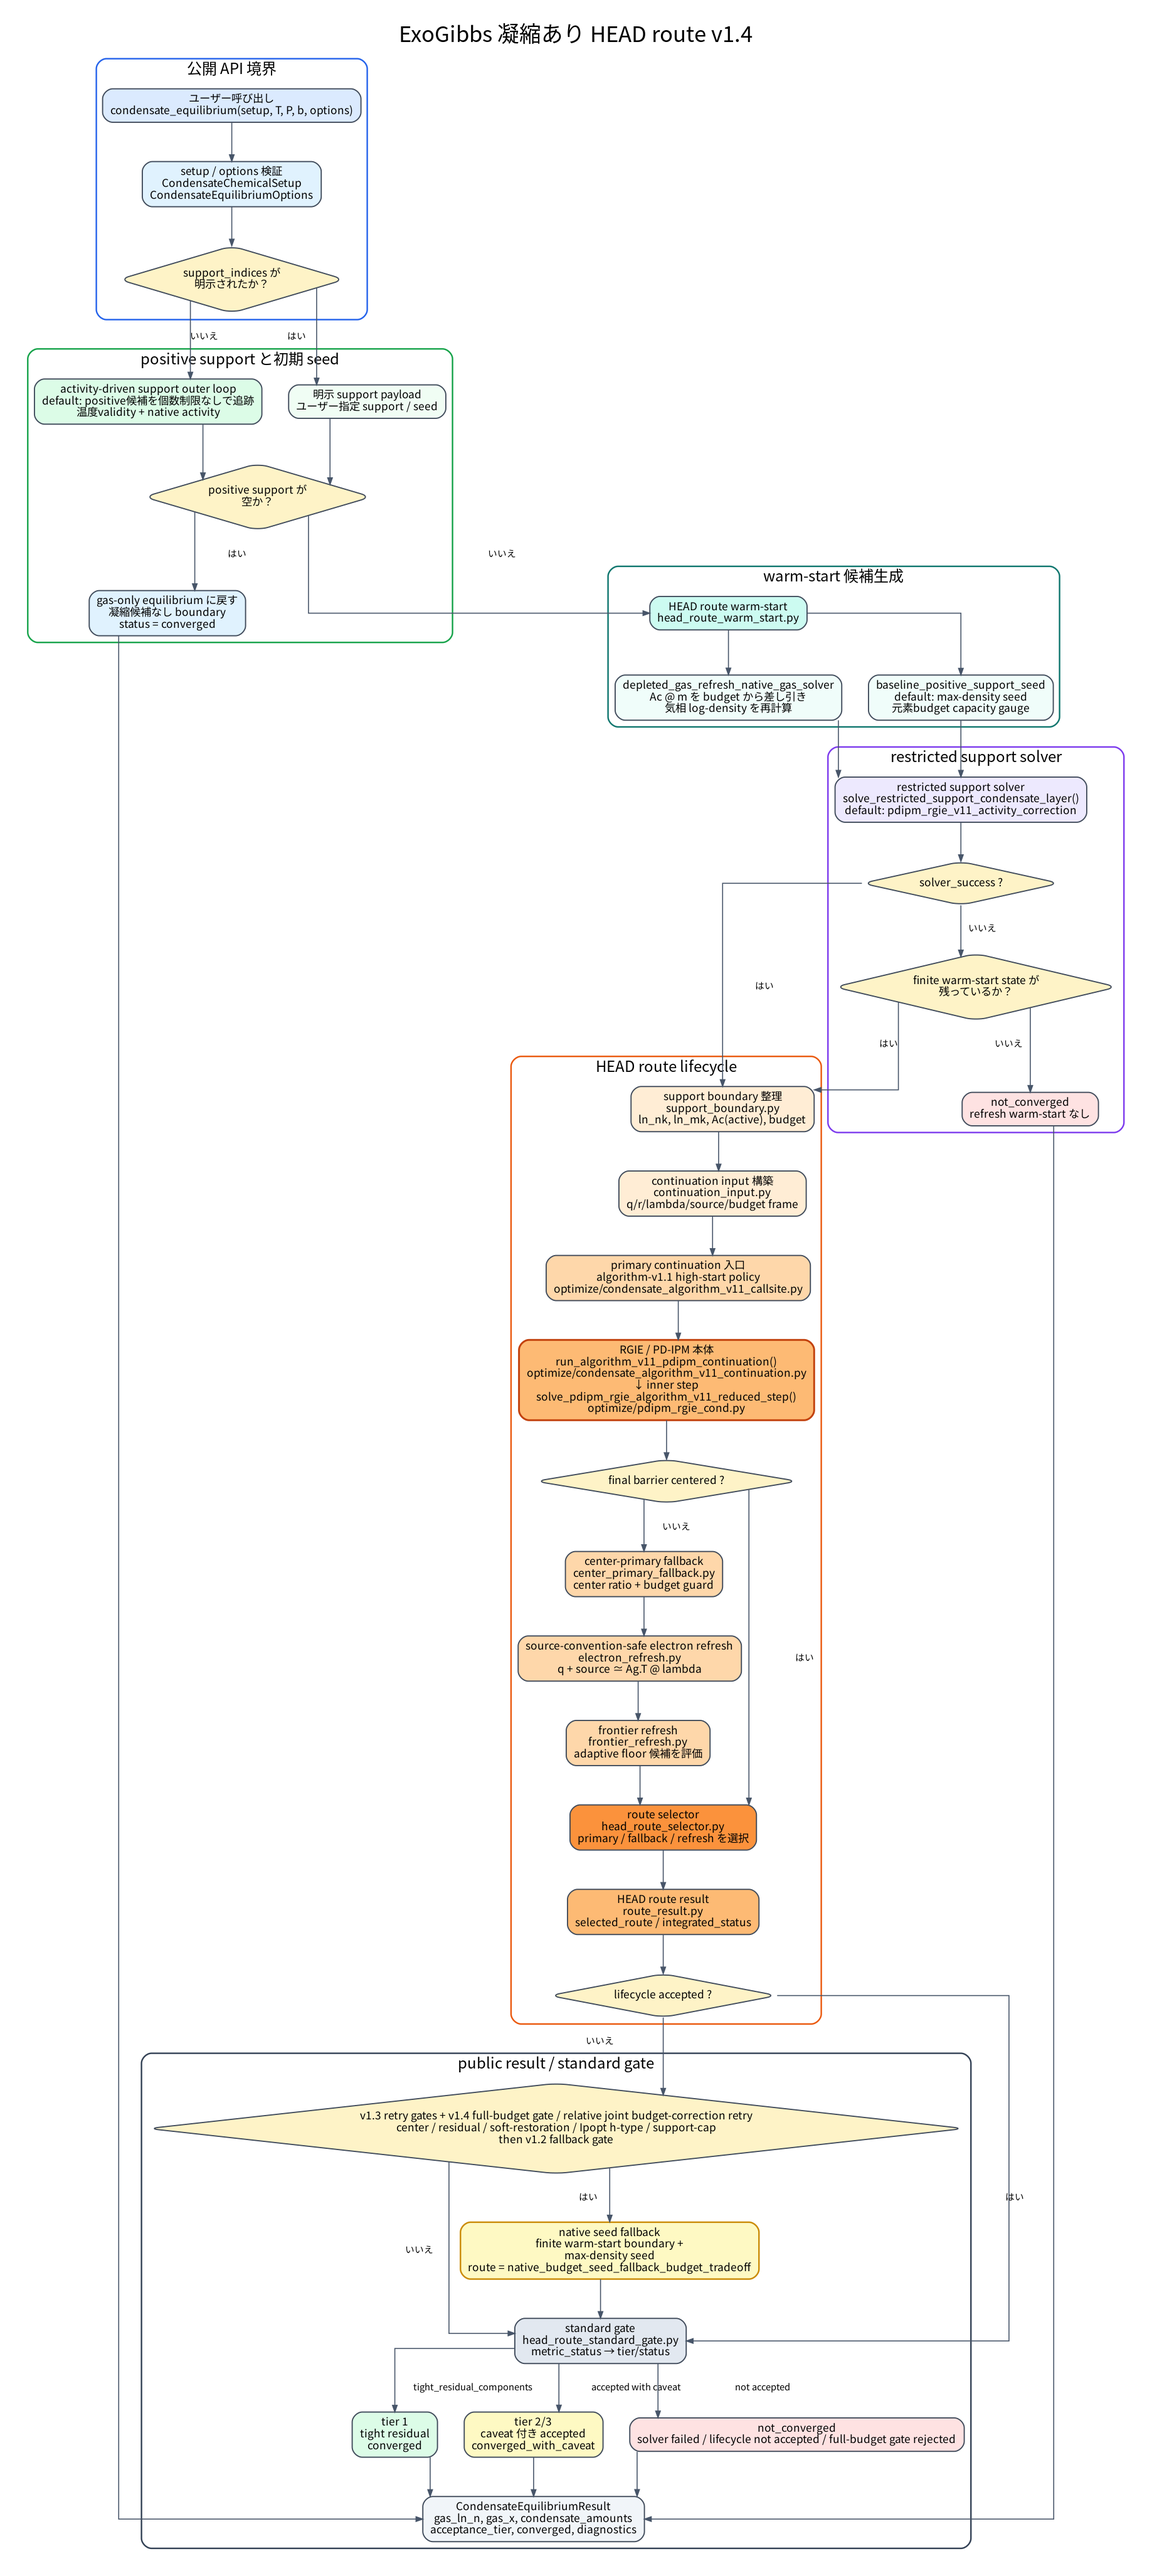
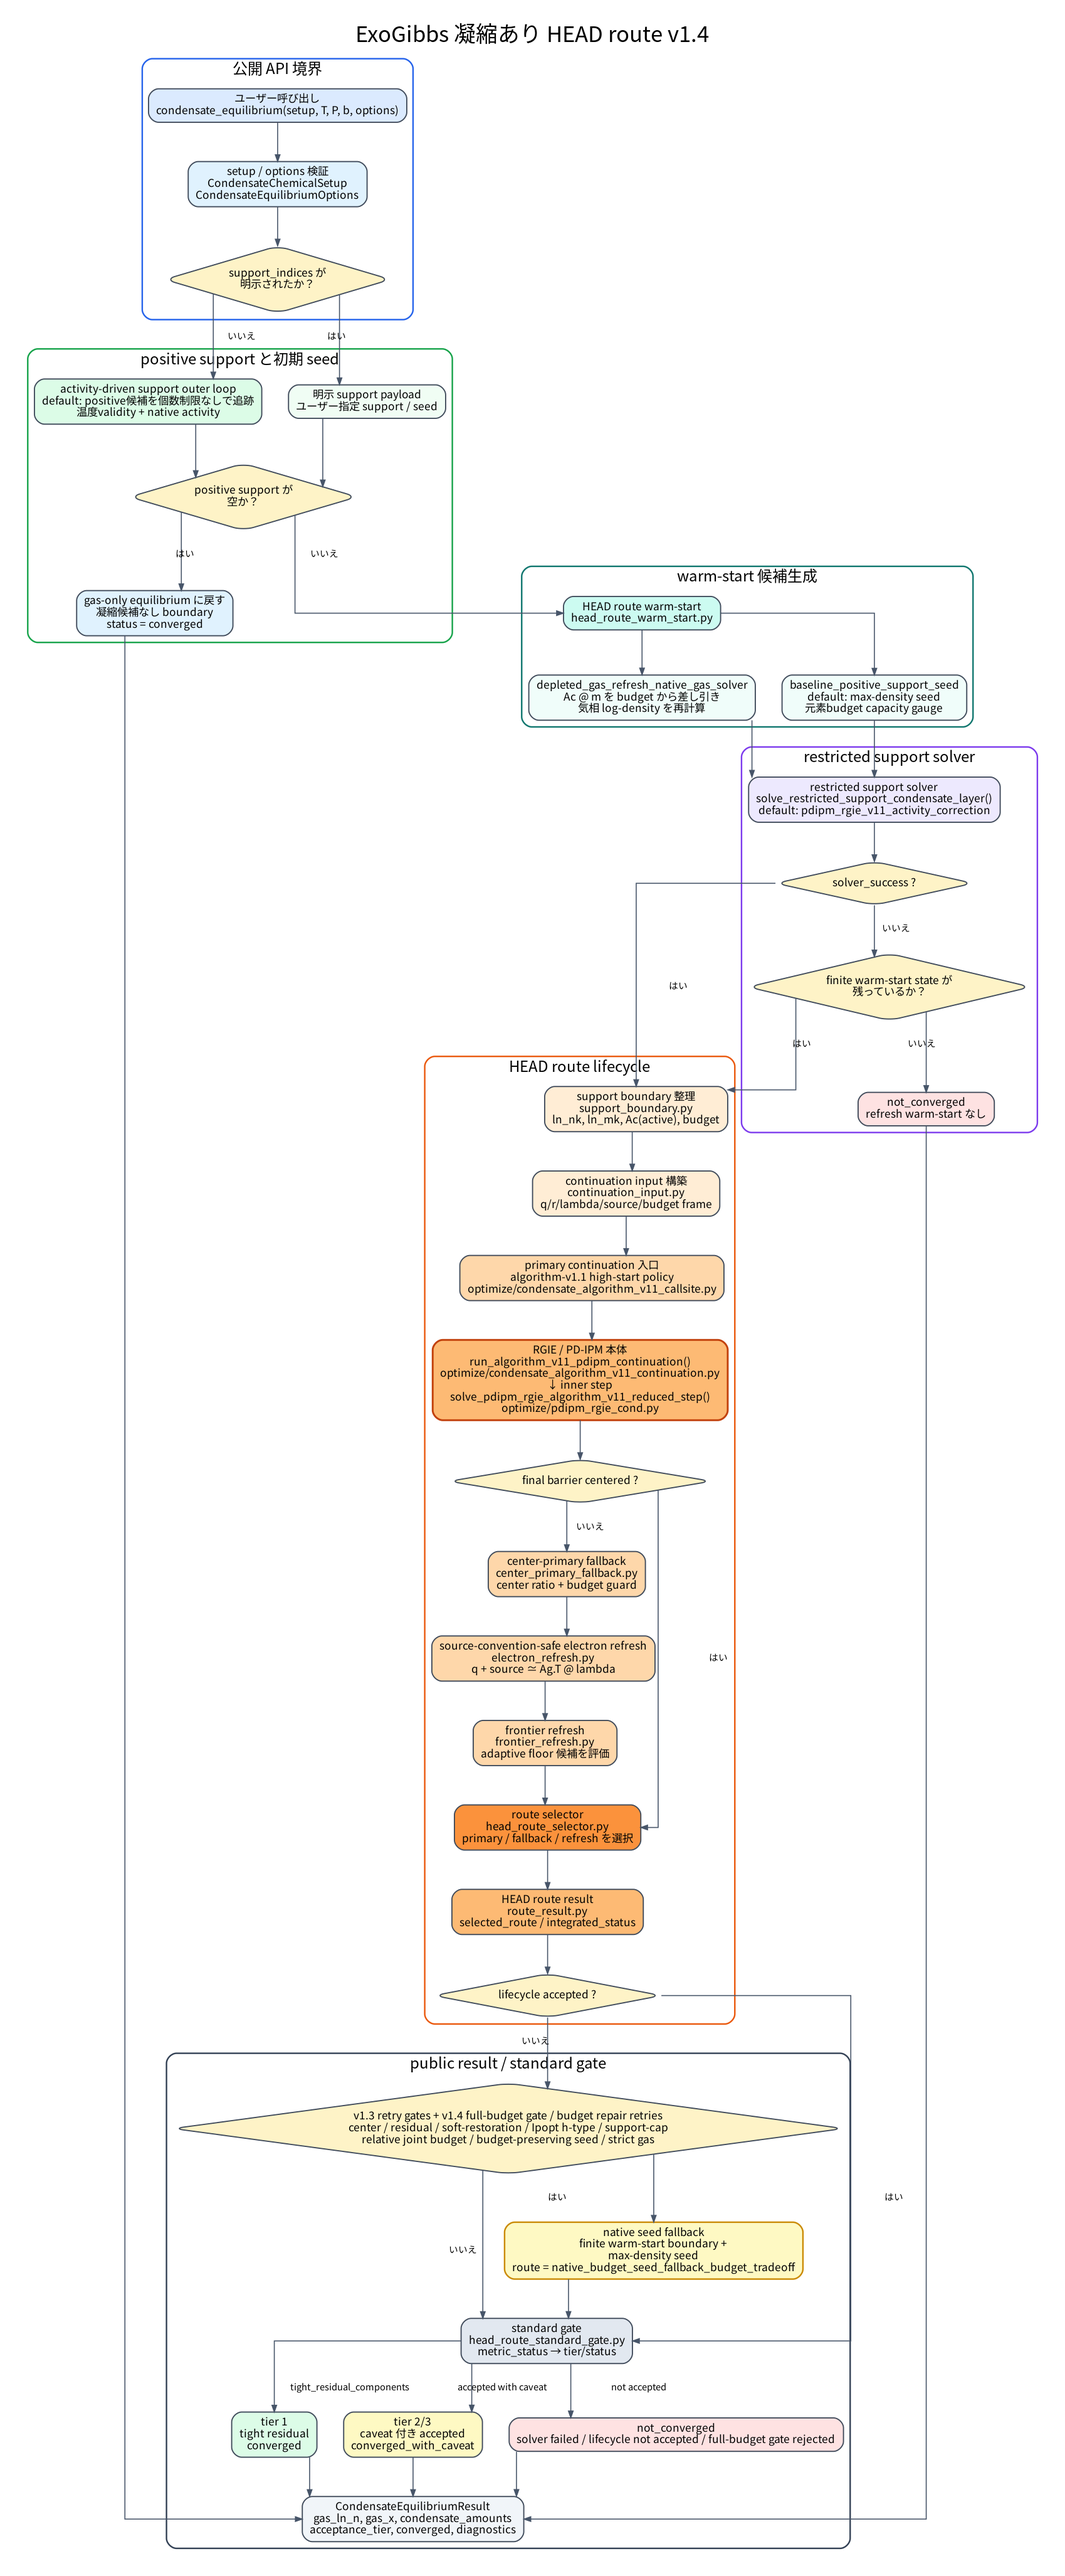
condensates: repair remaining head route rejects

diff --git a/src/exogibbs/api/condensate_equilibrium.py b/src/exogibbs/api/condensate_equilibrium.py
@@ -1740,6 +1740,19 @@ def _with_support_growth_staging_retry_diagnostics(
     return replace(result, diagnostics=diagnostics)
 
 
+def _with_support_budget_preserving_seed_retry_diagnostics(
+    *,
+    result: CondensateEquilibriumResult,
+    retry_report: Mapping[str, Any],
+    return_diagnostics: bool,
+) -> CondensateEquilibriumResult:
+    if not return_diagnostics:
+        return result
+    diagnostics = dict(result.diagnostics or {})
+    diagnostics["support_budget_preserving_seed_retry"] = retry_report
+    return replace(result, diagnostics=diagnostics)
+
+
 def _run_activity_driven_support_outer_loop(
     *,
     setup: CondensateChemicalSetup,
@@ -1808,8 +1821,12 @@ def _run_activity_driven_support_outer_loop(
         )
         if not options.allow_empty_positive_support:
             raise ValueError("No positive condensate support candidates were selected.")
-        diagnostics = {"support_selection": support_selection_report} if options.return_diagnostics else None
-        return _build_empty_support_gas_result(
+        diagnostics = (
+            {"support_selection": support_selection_report}
+            if options.return_diagnostics
+            else None
+        )
+        empty_result = _build_empty_support_gas_result(
             setup=setup,
             gas_ln_n=gas_result.ln_n,
             diagnostics=diagnostics,
@@ -1821,6 +1838,68 @@ def _run_activity_driven_support_outer_loop(
                 options.full_condensate_budget_relative_tolerance
             ),
         )
+        gate = (empty_result.diagnostics or {}).get(
+            "full_condensate_budget_residual_gate",
+            {},
+        )
+        if (
+            options.enable_full_condensate_budget_residual_gate
+            and not empty_result.converged
+            and isinstance(gate, Mapping)
+            and not bool(gate.get("accepted", True))
+        ):
+            strict_gas_result = equilibrium(
+                setup.gas_setup,
+                T,
+                P,
+                jnp.asarray(b),
+                Pref=Pref,
+                options=EquilibriumOptions(epsilon_crit=1.0e-12),
+                return_diagnostics=False,
+            )
+            strict_diagnostics = dict(diagnostics or {})
+            strict_diagnostics["empty_support_strict_gas_retry"] = {
+                "retry_schema": "exogibbs_empty_support_strict_gas_retry_v1",
+                "triggered": True,
+                "epsilon_crit": 1.0e-12,
+                "initial_full_condensate_budget_gate": gate,
+                "fastchem4_trace_public_runtime_constructor_inputs_used": False,
+            }
+            strict_result = _build_empty_support_gas_result(
+                setup=setup,
+                gas_ln_n=strict_gas_result.ln_n,
+                diagnostics=strict_diagnostics,
+                element_inventory_target=b,
+                enable_full_condensate_budget_residual_gate=(
+                    options.enable_full_condensate_budget_residual_gate
+                ),
+                full_condensate_budget_relative_tolerance=(
+                    options.full_condensate_budget_relative_tolerance
+                ),
+            )
+            if options.return_diagnostics:
+                strict_gate = (strict_result.diagnostics or {}).get(
+                    "full_condensate_budget_residual_gate",
+                    {},
+                )
+                retry_report = dict(
+                    (strict_result.diagnostics or {}).get(
+                        "empty_support_strict_gas_retry",
+                        {},
+                    )
+                )
+                retry_report["accepted"] = bool(strict_result.converged)
+                retry_report["retry_full_condensate_budget_gate"] = strict_gate
+                strict_result = replace(
+                    strict_result,
+                    diagnostics={
+                        **dict(strict_result.diagnostics or {}),
+                        "empty_support_strict_gas_retry": retry_report,
+                    },
+                )
+            if strict_result.converged:
+                return strict_result
+        return empty_result
 
     support_amounts = _budget_seed_for_support(
         setup=setup,
@@ -2103,6 +2182,57 @@ def _run_activity_driven_support_outer_loop(
                     retry_report=retry_report,
                     return_diagnostics=options.return_diagnostics,
                 )
+    if (
+        options.seed_initialization_policy != "budget_preserving_fraction"
+        and last_result.selected_route == "native_budget_seed_fallback_budget_tradeoff"
+        and not last_result.converged
+    ):
+        retry_options = replace(
+            options,
+            case_id=None
+            if options.case_id is None
+            else f"{options.case_id}__budget_preserving_seed_retry",
+            seed_initialization_policy="budget_preserving_fraction",
+            enable_support_cap_retry=False,
+            enable_support_growth_staging_retry=False,
+        )
+        retry_result = condensate_equilibrium(
+            setup,
+            T,
+            P,
+            b,
+            Pref=Pref,
+            options=retry_options,
+        )
+        retry_report = {
+            "retry_schema": "exogibbs_support_free_budget_preserving_seed_retry_v1",
+            "triggered": True,
+            "accepted": bool(retry_result.converged),
+            "route_promoted": bool(
+                retry_result.selected_route
+                != "native_budget_seed_fallback_budget_tradeoff"
+            ),
+            "initial_seed_initialization_policy": options.seed_initialization_policy,
+            "retry_seed_initialization_policy": "budget_preserving_fraction",
+            "initial_selected_route": last_result.selected_route,
+            "initial_status": last_result.status,
+            "initial_support_count": len(tuple(current_support)),
+            "retry_selected_route": retry_result.selected_route,
+            "retry_status": retry_result.status,
+            "retry_support_count": len(tuple(retry_result.condensate_support_names)),
+            "fastchem4_trace_public_runtime_constructor_inputs_used": False,
+        }
+        if retry_result.converged:
+            return _with_support_budget_preserving_seed_retry_diagnostics(
+                result=retry_result,
+                retry_report=retry_report,
+                return_diagnostics=options.return_diagnostics,
+            )
+        last_result = _with_support_budget_preserving_seed_retry_diagnostics(
+            result=last_result,
+            retry_report=retry_report,
+            return_diagnostics=options.return_diagnostics,
+        )
     return _with_support_outer_loop_diagnostics(
         result=last_result,
         support_selection_report=support_selection_report,

diff --git a/tests/endtoend/curated_cases/test_fresh_api_curated_cases.py b/tests/endtoend/curated_cases/test_fresh_api_curated_cases.py
@@ -79,8 +79,17 @@ SUPPORT_FREE_MIDLAYER_EXPECTED_STATUSES = {
     "complex_heavy_element_or_boron_titanium_zirconium_case": CONVERGED,
 }
 
-SUPPORT_FREE_STAGED_RETRY_REGRESSION_ROWS = (
+SUPPORT_FREE_FALLBACK_RETRY_REGRESSION_ROWS = (
     ("solar_water_condensation", 7),
+)
+
+SUPPORT_FREE_V1_4_REMAINING_REJECT_REGRESSION_ROWS = (
+    ("carbon_rich_graphite_window", 0, "support_budget_preserving_seed_retry"),
+    ("carbon_rich_graphite_window", 1, "support_budget_preserving_seed_retry"),
+    ("carbon_rich_graphite_window", 3, "support_budget_preserving_seed_retry"),
+    ("solar_highT_no_condensate_gas_regression", 14, "empty_support_strict_gas_retry"),
+    ("solar_highT_no_condensate_gas_regression", 16, "empty_support_strict_gas_retry"),
+    ("solar_water_condensation", 0, "support_budget_preserving_seed_retry"),
 )
 
 
@@ -376,10 +385,10 @@ def test_support_free_curated_midlayers_use_retry_defaults() -> None:
     assert status_counts == {CONVERGED: 10, CONVERGED_WITH_CAVEAT: 0, NOT_CONVERGED: 0}
 
 
-def test_support_free_staged_retry_regression_layers_promote_to_primary() -> None:
+def test_support_free_fallback_retry_regression_layers_promote_to_primary() -> None:
     setup = condensate_chemical_setup(silent=True)
 
-    for family, layer_index in SUPPORT_FREE_STAGED_RETRY_REGRESSION_ROWS:
+    for family, layer_index in SUPPORT_FREE_FALLBACK_RETRY_REGRESSION_ROWS:
         definition = FRESH_CURATED_PROFILES[family]
         temperature = float(definition.temperatures[layer_index])
         pressure = float(definition.pressures[layer_index])
@@ -406,18 +415,58 @@ def test_support_free_staged_retry_regression_layers_promote_to_primary() -> Non
         assert result.diagnostics is not None
         gate = result.diagnostics["full_condensate_budget_residual_gate"]
         assert gate["accepted"] is True
-        retry_report = result.diagnostics["support_growth_staging_retry"]
+        retry_report = result.diagnostics["support_budget_preserving_seed_retry"]
         assert retry_report["triggered"] is True
         assert retry_report["accepted"] is True
         assert retry_report["route_promoted"] is True
-        assert retry_report["max_support_add_per_round"] == 64
         assert (
             retry_report["initial_selected_route"]
             == "native_budget_seed_fallback_budget_tradeoff"
         )
+        assert retry_report["retry_seed_initialization_policy"] == "budget_preserving_fraction"
         support_selection = result.diagnostics["support_selection"]
         assert support_selection["selection_mode"] == "activity_driven_support_outer_loop"
         assert support_selection["fastchem4_trace_values_used"] is False
+
+
+def test_support_free_v1_4_remaining_reject_rows_are_repaired() -> None:
+    setup = condensate_chemical_setup(silent=True)
+
+    for (
+        family,
+        layer_index,
+        retry_key,
+    ) in SUPPORT_FREE_V1_4_REMAINING_REJECT_REGRESSION_ROWS:
+        definition = FRESH_CURATED_PROFILES[family]
+        temperature = float(definition.temperatures[layer_index])
+        pressure = float(definition.pressures[layer_index])
+        result = condensate_equilibrium(
+            setup,
+            temperature,
+            pressure,
+            element_budget_for_profile(setup, definition),
+            options=CondensateEquilibriumOptions(
+                case_id=(
+                    f"{case_id_for_profile(definition, temperature, pressure)}"
+                    "__remaining_reject_regression"
+                ),
+                return_diagnostics=True,
+                max_inner_iterations=definition.max_inner_iterations,
+            ),
+        )
+
+        assert result.status == CONVERGED, family
+        assert result.converged is True
+        assert result.diagnostics is not None
+        gate = result.diagnostics["full_condensate_budget_residual_gate"]
+        assert gate["accepted"] is True
+        retry_report = result.diagnostics[retry_key]
+        assert retry_report["triggered"] is True
+        assert retry_report["accepted"] is True
+        assert (
+            retry_report["fastchem4_trace_public_runtime_constructor_inputs_used"]
+            is False
+        )
 
 
 def test_water_explicit_support_primary_center_tolerance_opt_in_reaches_tier1() -> None:

diff --git a/documents/graphviz/head_route_v1_graph_en.py b/documents/graphviz/head_route_v1_graph_en.py
@@ -231,7 +231,7 @@ DOT_SOURCE = f"""digraph head_route_v1_en {{
     ];
     v11_fallback_gate [
       shape=diamond,
-      label="v1.3 retry gates + v1.4 full-budget gate / relative joint budget-correction retry\\ncenter / residual / soft-restoration / Ipopt h-type / support-cap\\nthen v1.2 fallback gate",
+      label="v1.3 retry gates + v1.4 full-budget gate / budget repair retries\\ncenter / residual / soft-restoration / Ipopt h-type / support-cap\\nrelative joint budget / budget-preserving seed / strict gas",
       fillcolor="#fef3c7"
     ];
     native_seed_fallback [

diff --git a/documents/graphviz/head_route_v1_graph.py b/documents/graphviz/head_route_v1_graph.py
@@ -231,7 +231,7 @@ DOT_SOURCE = f"""digraph head_route_v1 {{
     ];
     v11_fallback_gate [
       shape=diamond,
-      label="v1.3 retry gates + v1.4 full-budget gate / relative joint budget-correction retry\\ncenter / residual / soft-restoration / Ipopt h-type / support-cap\\nthen v1.2 fallback gate",
+      label="v1.3 retry gates + v1.4 full-budget gate / budget repair retries\\ncenter / residual / soft-restoration / Ipopt h-type / support-cap\\nrelative joint budget / budget-preserving seed / strict gas",
       fillcolor="#fef3c7"
     ];
     native_seed_fallback [

diff --git a/examples/condensates_curated_support_select_demo/README.md b/examples/condensates_curated_support_select_demo/README.md
@@ -10,16 +10,16 @@ Current HEAD route v1.4 fresh API counts over the 10 full profile families are:
 | route group | layers |
 |---|---:|
 | empty gas-only boundary | 17 |
-| primary promoted route | 78 |
-| native seed fallback route | 4 |
+| primary promoted route | 82 |
+| native seed fallback route | 0 |
 | exception | 0 |
 
 Current public status after the v1.4 full-condensate element-budget gate is:
 
 | status group | layers |
 |---|---:|
-| converged | 93 |
-| not_converged | 6 |
+| converged | 99 |
+| not_converged | 0 |
 | exception | 0 |
 
 The v1.3 support-free gates include center-gate retry with
@@ -37,6 +37,8 @@ indices in the public result. The current v1.4 HEAD route also applies
 per-condensate element capacity caps, final support amount polish, and a
 relative joint gas/condensate budget-correction retry that starts from the
 lifecycle final state when the public full-budget gate rejects an accepted row.
+Remaining full-profile rejects are guarded by a budget-preserving seed retry
+for native fallback rows and a strict gas-only retry for empty-support rows.
 
 The demos are scratch-facing examples for auditing native support selection.
 They intentionally keep the original pressure/temperature families from

diff --git a/tests/endtoend/curated_cases/README.md b/tests/endtoend/curated_cases/README.md
@@ -33,4 +33,6 @@ There are two curated surfaces:
   lifecycle final-state public result wiring with post-growth support indices,
   and a relative joint gas/condensate budget-correction retry that starts from
   the lifecycle final state when the public full-budget gate rejects an accepted
-  row.
+  row. Remaining support-free fallback rejects are guarded by a
+  budget-preserving seed retry, and empty-support gas-only gate rejects are
+  guarded by a strict gas-only retry.
